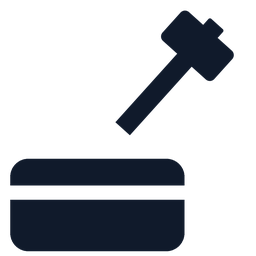
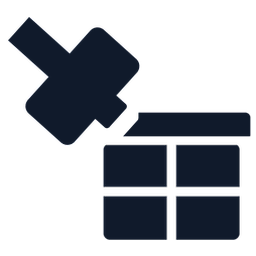
SMASH gets its own glyph, the mallet crossing the box with a void carved around it, and its own faster swing

diff --git a/src/ui.tsx b/src/ui.tsx
@@ -752,7 +752,7 @@ const PadControls = () => {
           presseePar={tirDesktop}
           frames={!combatView.aiming && peutConstruireIci(a) ? posesDe(a.icon) : undefined}
           pulse={!combatView.aiming && stepExpects(a.id) && peutConstruireIci(a)}
-          periodMs={SWING_MS} touche={touche('E')} />
+          periodMs={cadenceDe(a.id)} touche={touche('E')} />
       ) : (
         <Pouce icone={combatView.aiming ? ico('fire') : ico(stepVerb())} taille={pad.gros}
           bas={0} droite={0} primaire disabled={!combatView.aiming}
@@ -769,6 +769,19 @@ const PadControls = () => {
 */
 // 800 was noise on the board (owner, 3 Sep); a beat and a fifth is the first value that was not.
 const SWING_MS = 1200
+/*
+  SMASH bat plus vite que BUILD, et ce n'est pas une preference.
+
+  Les deux verbes ne demandent pas le meme geste. Batir est un acte UNIQUE: le balancement y
+  est une invitation, il peut prendre son temps et 1200 ms a ete regle pour ne pas faire du
+  bruit sur le plateau. Casser une boite demande TROIS coups d'affilee, donc le bouton doit
+  donner le tempo de ce qu'on attend du pouce; a la cadence de BUILD il traine derriere le
+  joueur au lieu de l'entrainer (proprietaire, 7 Sep). Le mouvement lui-meme ne change pas, il
+  occupe toujours les 300 dernieres millisecondes de la periode: c'est le REPOS entre deux
+  frappes qui raccourcit.
+*/
+const SWING_SMASH_MS = 750
+function cadenceDe(id: string | undefined): number { return id === 'smash' ? SWING_SMASH_MS : SWING_MS }
 
 /** The desktop canvas is 1080 high against the phone's 720: the same pad, drawn at that ratio. */
 const DESKTOP_PAD_SCALE = 1.5

diff --git a/src/client/build-stamp.ts b/src/client/build-stamp.ts
@@ -6,4 +6,4 @@
  * construction: the code may be wrong, or the client may simply be showing the previous
  * version. Two hours of that argument (1 Sep) is what this four-character string ends.
  */
-export const BUILD = 'e456'
+export const BUILD = 'b63b'

diff --git a/tools/ui/build-smash-icon.py b/tools/ui/build-smash-icon.py
@@ -1,5 +1,5 @@
 """
-The SMASH glyph: the same mallet, coming down on a box.
+The SMASH glyph: our own box, with our own mallet coming down on it from the left.
 
 Why it is not the BUILD glyph. The contextual button showed the bare mallet for BUILD and the
 bare mallet again for SMASH, so the picture was identical before and after buying a box, and a
@@ -12,11 +12,25 @@ player has already learnt. What differs between the two verbs is the OBJECT, so 
 what the glyph adds. That is also how the genre draws it: the reference for "break this open"
 is the container plus whatever hits it, never the tool alone.
 
-Drawing rules inherited from the family (see build-mallet-icon.py): one flat mass, no interior
-detail, nothing that needs more than a silhouette at 56 px on a phone. Two masses that touch
-would fuse into one unreadable blob, so the mallet head stops SHORT of the lid and the gap is
-part of the design, not slack. The lid is cut out of the box rather than drawn on it, for the
-same reason: a line drawn in the same colour would be invisible.
+Neither half is redrawn here, and that is the whole point of the file.
+
+  The box is `encre-crate.png` ITSELF, loaded and tinted, not a rounded rectangle that looks
+  like it. A first version drew its own box and the owner spotted it at once (7 Sep: "la box
+  correspond pas a notre logo de box qu'on a deja"). The game has one box glyph, drawn in
+  build-hud-icon.js with its overhanging lid and the gaps between its planks; anything else is
+  a second box that will drift from the first.
+
+  The mallet comes from build-mallet-icon.py, the tool that owns it.
+
+Placement follows the reading order, which is an instruction and not a taste: we read left to
+right, so the thing that ACTS comes first and the thing ACTED ON comes second. The mallet is
+therefore on the left, in front, and the box sits to its lower right where the blow lands
+(owner, 7 Sep). The mallet is drawn head up-right for BUILD, where it stands alone; laid beside
+a box in that pose it points AWAY from it, so it is turned a quarter clockwise here and its head
+comes down onto the box's left shoulder.
+
+Both masses are one flat ink, so where they touch they fuse into an unreadable blob: the gap
+between the mallet and the box is part of the drawing, not slack left over.
 
 Three poses, like BUILD, so the button keeps its swing: raised, halfway, struck. The box never
 moves; only the mallet does, which is what makes the blow read as a blow rather than as the
@@ -25,14 +39,12 @@ whole picture sliding.
 Run: python3 tools/ui/build-smash-icon.py
 """
 import os
-from PIL import Image, ImageDraw
+from PIL import Image, ImageChops, ImageFilter
 
 from importlib.machinery import SourceFileLoader
 
 HERE = os.path.dirname(os.path.abspath(__file__))
 OUT = os.path.abspath(os.path.join(HERE, '../../assets/ui'))
-# The mallet lives in the tool that owns it: one drawing, one place, so the two glyphs cannot
-# drift into two different mallets.
 maillet = SourceFileLoader('maillet', os.path.join(HERE, 'build-mallet-icon.py')).load_module()
 
 N = 256
@@ -40,38 +52,115 @@ SS = 4
 WHITE = (255, 255, 255, 255)
 NAVY = (16, 26, 43, 255)
 
-# The box, in a 100 x 100 design space: bottom-left, wide enough to read as a container and low
-# enough to leave the mallet the top-right quadrant it swings through.
-BOX = (4, 62, 72, 98)
-BOX_R = 7
-# The lid, cut straight out: a band of nothing across the box's shoulders.
-LID_Y = 72.5
-LID_H = 5.5
-# How far the mallet's own square is inset, and where it sits.
-MALLET_SIDE = 60
-MALLET_AT = (38, -4)
+# Shares of the canvas. Both objects are drawn BIG and made to overlap; what separates them is
+# a void cut out of the box, not space left between them.
+#
+# The first version put them side by side, which cannot work here: two objects sharing the box
+# of one come out at half the size, and next to BUILD, CRATE or STEAL at the real thumb size of
+# 35 px the glyph read as a smudge (owner, 7 Sep, and visible in a strip rendered at that size).
+# The family's own answer is written in the crate glyph itself, in build-hud-icon.js: "ce sont
+# les VIDES qui dessinent". So the mallet crosses the box, and the box is HOLLOWED OUT around
+# the mallet's silhouette. Both keep their full size, the pair stays compact, and one flat ink
+# still reads as two objects.
+BOX_PART = 0.70          # the box's file, as a share of the canvas
+MALLET_PART = 0.60       # the mallet's file, same
+BOX_TL = (0.36, 0.48)    # where the box's ink starts, in canvas shares
+# Where the head lands, as a share of the box's ink, measured from its top left corner.
+FRAPPE = (0.30, 0.26)
+# The void carved around the mallet, in canvas shares. Two masses of one ink that touch fuse
+# into a blob; this is the same separation the crate draws between its own planks.
+VIDE = 0.045
+# A quarter turn clockwise, and it is what makes the tool STRIKE rather than stand there.
+#
+# The mallet is drawn head up-right, grip down-left, which is the right pose for BUILD where it
+# is alone. Laid beside a box in that pose it points AWAY from it: a tool floating in a corner
+# (owner, 7 Sep). Turned a quarter clockwise the head comes down-right, onto the box's top left
+# shoulder, and the handle runs up-left out of the way. That is how the whole genre draws a
+# blow, and it costs one rotation rather than a second mallet drawing.
+MALLET_TURN = -90
+# A SHORT mallet, and the reason is stroke weight, not composition.
+#
+# Two objects share this canvas, so the tool is drawn shorter than when it stands alone.
+# Shrinking the whole mallet would take its handle down with it, and the family's rule is that
+# every glyph carries the same weight as its neighbours: a thin handle was already reported once
+# on BUILD itself ("manche tres fin", 5 Sep). The handle is therefore CUT rather than scaled, so
+# the tool keeps the set's bar thickness and simply becomes a stubbier mallet.
+MANCHE_COURT = 87
 
 
-def dessine(size, swing_deg, colour):
+def boite(cote, colour):
+    """Our own crate glyph, at `cote` pixels, repainted in the family's ink.
+
+    Only the alpha channel is kept: the shape is the asset's, the colour is the caller's, so
+    the white family and the navy family are the same drawing and cannot diverge.
+    """
+    src = Image.open(os.path.join(OUT, 'encre-crate.png')).convert('RGBA')
+    src = src.resize((cote, cote), Image.LANCZOS)
+    plein = Image.new('RGBA', src.size, colour)
+    plein.putalpha(src.split()[3])
+    return plein
+
+
+def maillet_court(cote, colour):
+    """The mallet with a cut handle, from its own tool, at full family stroke weight."""
+    handle, pivot = maillet.HANDLE, maillet.PIVOT
+    maillet.HANDLE = (handle[0], handle[1], handle[2], MANCHE_COURT)
+    maillet.PIVOT = (pivot[0], MANCHE_COURT - 2)
+    try:
+        return maillet.framed(cote, colour)
+    finally:
+        maillet.HANDLE, maillet.PIVOT = handle, pivot
+
+
+def encre(im):
+    """The ink's bounding box, ignoring the near-transparent fringe of a resize."""
+    return im.split()[3].point(lambda v: 255 if v > 8 else 0).getbbox()
+
+
+def creuser(fond, dessus, at, marge):
+    """Take `dessus` and a margin around it out of `fond`'s alpha, at `at`."""
+    masque = Image.new('L', fond.size, 0)
+    masque.paste(dessus.split()[3], at)
+    if marge > 0:
+        n = int(marge) * 2 + 1
+        masque = masque.filter(ImageFilter.MaxFilter(min(n, 199)))
+    a = fond.split()[3]
+    a = ImageChops.subtract(a, masque)
+    fond.putalpha(a)
+    return fond
+
+
+def dessine(size, pose, colour):
     big = size * SS
     im = Image.new('RGBA', (big, big), (0, 0, 0, 0))
-    d = ImageDraw.Draw(im)
-    k = big / 100.0
 
-    d.rounded_rectangle([BOX[0] * k, BOX[1] * k, BOX[2] * k, BOX[3] * k], radius=BOX_R * k, fill=colour)
-    # The lid, cut rather than drawn. `rectangle` with a transparent fill would not erase, so
-    # the band is punched through the alpha channel directly.
-    band = Image.new('L', im.size, 255)
-    ImageDraw.Draw(band).rectangle(
-        [BOX[0] * k - 1, LID_Y * k, BOX[2] * k + 1, (LID_Y + LID_H) * k], fill=0)
-    a = im.split()[3]
-    a.paste(0, (0, 0), band.point(lambda v: 255 - v))
-    im.putalpha(a)
+    bx = boite(int(BOX_PART * big), colour)
+    ml = maillet_court(int(MALLET_PART * big), colour)[pose].rotate(MALLET_TURN, resample=Image.BICUBIC)
+    bb, mb = encre(bx), encre(ml)
 
-    # The mallet, from its own tool, scaled into the top-right and swung about its grip.
-    m = maillet.framed(int(MALLET_SIDE * k), colour)
-    pose = m[swing_deg]
-    im.alpha_composite(pose, (int(MALLET_AT[0] * k), int(MALLET_AT[1] * k)))
+    # The box first: its ink's top left corner lands on the chosen point.
+    bx_at = (round(BOX_TL[0] * big) - bb[0], round(BOX_TL[1] * big) - bb[1])
+    # Then the mallet, so its head (the bottom right of the ink, once turned) lands on the point
+    # of the box it strikes, given as a share of the box's own ink.
+    vise = (round(BOX_TL[0] * big) + round(FRAPPE[0] * (bb[2] - bb[0])),
+            round(BOX_TL[1] * big) + round(FRAPPE[1] * (bb[3] - bb[1])))
+    ml_at = (vise[0] - mb[2], vise[1] - mb[3])
+
+    # Nothing may leave the canvas: a bar amputated by the frame reads as a mistake at 35 px,
+    # and `normalise-glyphs.py` would then scale the damage rather than the drawing. The test is
+    # on the INTENDED rectangles, never on the composite: `alpha_composite` drops what falls
+    # outside without a word, so a check made afterwards always finds a glyph that fits.
+    for at, bb2, quoi in ((bx_at, bb, 'boite'), (ml_at, mb, 'maillet')):
+        x0, y0 = at[0] + bb2[0], at[1] + bb2[1]
+        x1, y1 = at[0] + bb2[2], at[1] + bb2[3]
+        assert 0 <= x0 and 0 <= y0 and x1 <= big and y1 <= big, \
+            f'{quoi} hors cadre: {(x0, y0, x1, y1)} dans {big}'
+
+    fond = Image.new('RGBA', (big, big), (0, 0, 0, 0))
+    fond.alpha_composite(bx, bx_at)
+    fond = creuser(fond, ml, ml_at, round(VIDE * big))
+    im.alpha_composite(fond)
+    im.alpha_composite(ml, ml_at)
     return im.resize((size, size), Image.LANCZOS)
 
 

diff --git a/tools/ui/normalise-glyphs.py b/tools/ui/normalise-glyphs.py
@@ -59,14 +59,14 @@ TOLERANCE = 0.02
 DRIFT = 1.5
 
 VERBS = [
-    'build', 'crate', 'place', 'give', 'drop', 'recover', 'collect', 'fire',
+    'build', 'smash', 'crate', 'place', 'give', 'drop', 'recover', 'collect', 'fire',
     'pickup', 'steal', 'up', 'fuse', 'outbid', 'buy', 'lock'
 ]
 
 # One entry is one group scaled together. Single files are their own group.
 GROUPS = []
 # A verb with poses: the rest pose first, because the group is centred on it.
-POSED = {'build': ['-raised', '-mid']}
+POSED = {'build': ['-raised', '-mid'], 'smash': ['-raised', '-mid']}
 for verb in VERBS:
     if verb in POSED:
         for family in ('icon', 'encre'):
